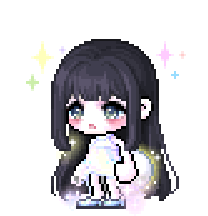
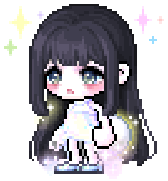
Fix bride asset and character positioning

diff --git a/style.css b/style.css
@@ -628,7 +628,7 @@ button {
 
 .portrait-frame {
   display: grid;
-  place-items: end center;
+  place-items: center;
   overflow: hidden;
   border: 2px solid #c6b888;
   border-radius: 5px;
@@ -636,10 +636,11 @@ button {
 }
 
 .portrait-frame img {
-  width: 78px;
-  height: 92px;
+  width: 84px;
+  height: 100px;
   object-fit: contain;
-  object-position: center bottom;
+  object-position: center center;
+  transform: translateY(-7px);
 }
 
 .dialogue-body {

diff --git a/game.js b/game.js
@@ -10,8 +10,8 @@ const GROUND_PATH = [
 ];
 const FOOT_OFFSET = {
   player: 4,
-  groom: 11,
-  bride: 4,
+  groom: 19,
+  bride: 12,
   mushroom: 28,
   arch: 0
 };
@@ -30,7 +30,7 @@ const GUEST_SPRITES = Array.from({ length: 60 }, (_, index) => {
   return `./assets/characters/guests/guest-${number}.png`;
 });
 const MOBILE_INVITATION_URL = "https://toourguest.com/cards/weddingws";
-const PROGRESS_VERSION = 14;
+const PROGRESS_VERSION = 15;
 const ATTACK_COOLDOWN = 420;
 
 const state = {